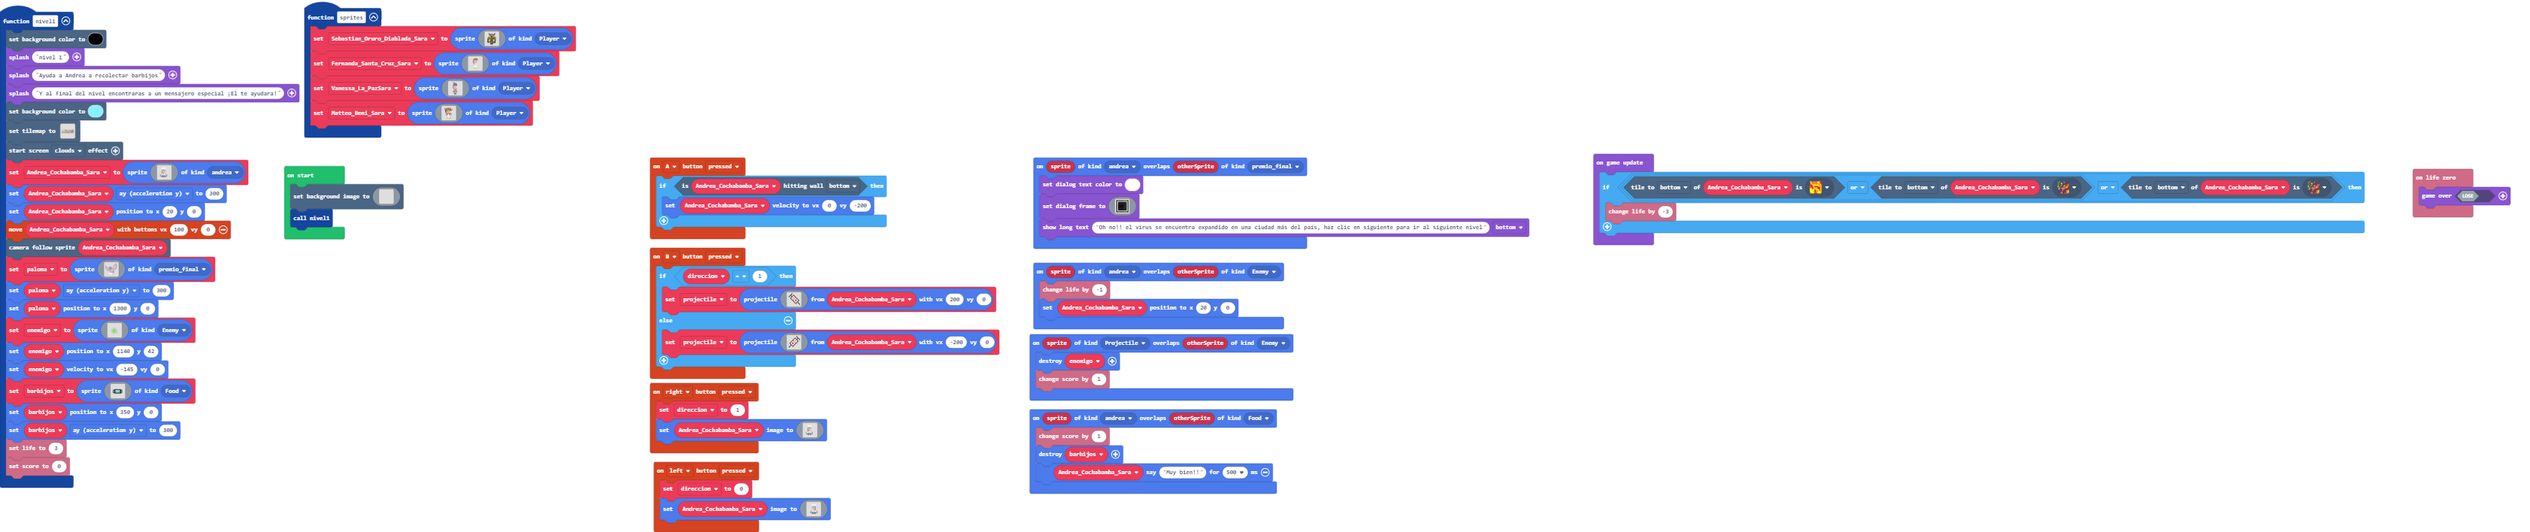
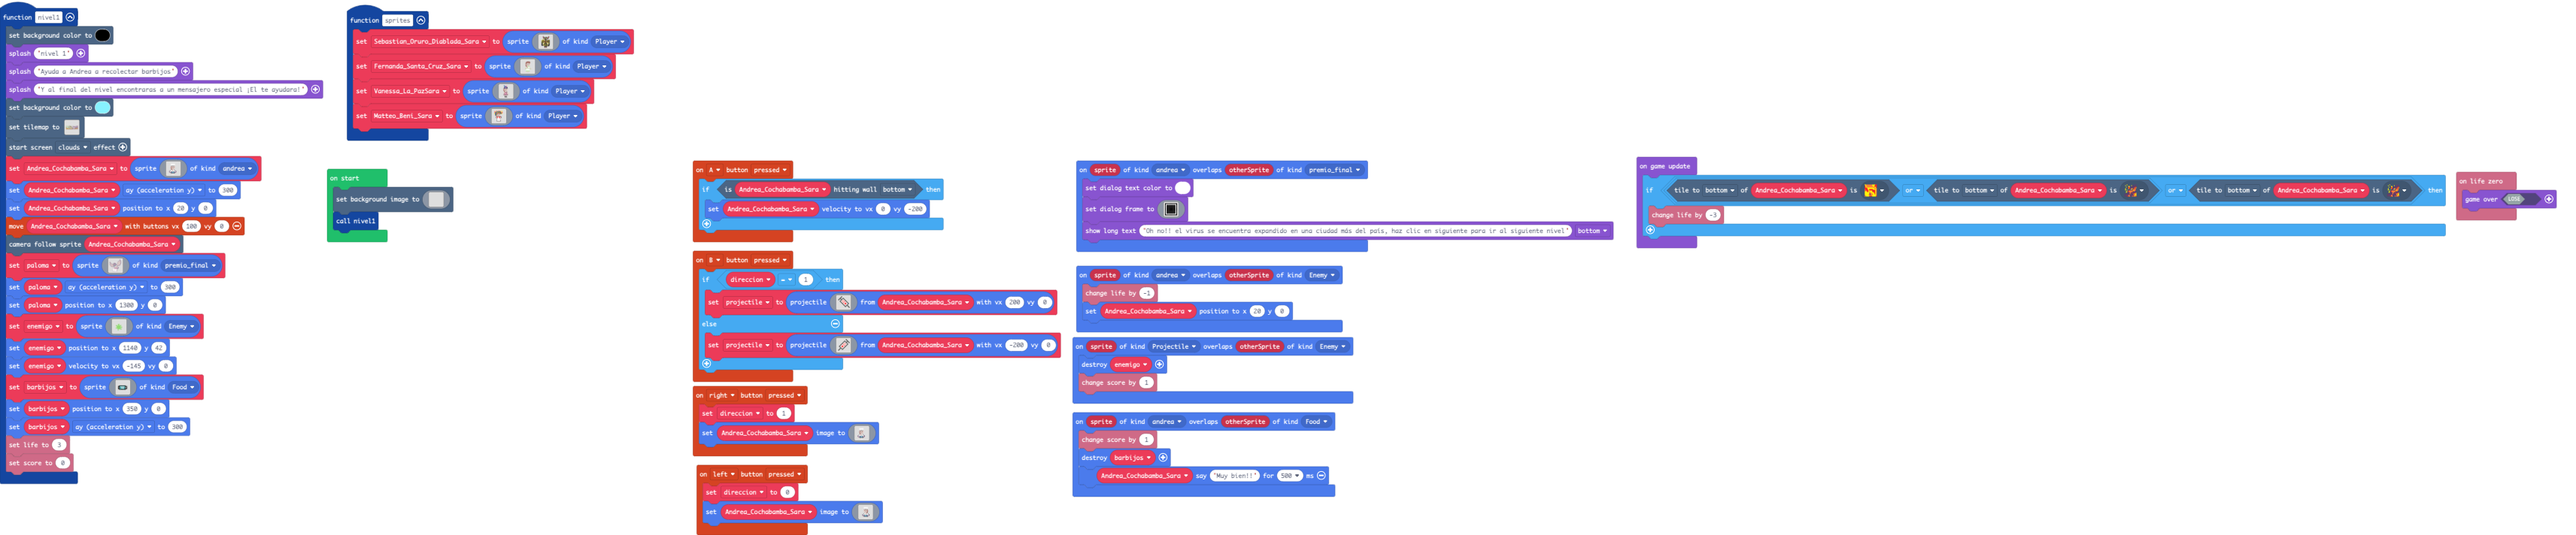
Update main.blocks, tilemap.g.jres, tilemap.g.ts

Changed region(s): [[0.2496, 0.2797, 0.9985, 1.0], [0.0, 0.0, 0.2496, 0.9322]]

diff --git a/tilemap.g.ts b/tilemap.g.ts
@@ -95,7 +95,7 @@ namespace myTiles {
 .............................................................................2...........2
 222222.....2222222.........22222.............................................2...........2
 22222222...22222222.......22222222222222.........2222222.................22222...........2
-22222222222222222222222...222222222222222.......22......222...22222222.......2...........2
+22222222222222222222222...222222222222222.......22......222...2222222........2...........2
 2222222222222.....22222...22222222222222222..............22222222............2...........2
 22.......222..............22..2222222222222..................................2...........2
 22........................22....2222222222...................................2...........2
